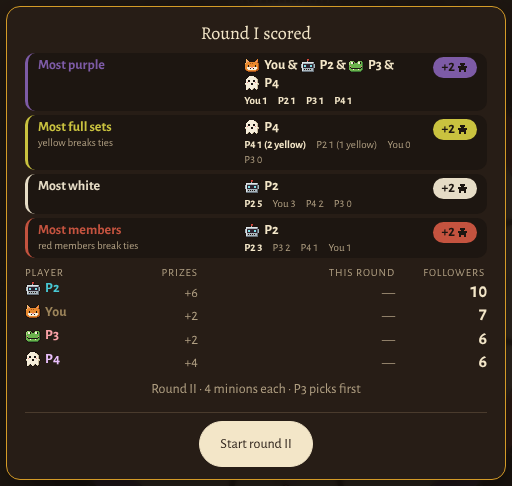
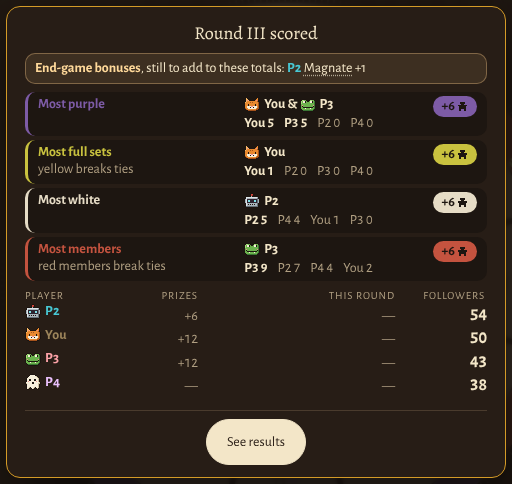
WIP checkpoint: agents in progress
Claude-Session: https://claude.ai/code/session_017rw3aQa9iJEjdvvwQLY84z

diff --git a/src/v4/lamp.css b/src/v4/lamp.css
@@ -495,7 +495,7 @@ h1,h2,h3{font-family:var(--serif)}
 @keyframes reckonwin{50%{transform:translate(0,-50%) scale(1.18)}}
 .lt-reckon .reckon-skip{position:absolute;right:18px;bottom:18px;min-height:44px;padding:0 18px;color:var(--cream);border-color:rgba(243,230,200,.4);background:rgba(29,22,17,.7)}
 .token-flight{position:fixed;z-index:45;pointer-events:none;display:grid;place-items:center;will-change:transform}
-.token-flight .reckon-token{display:grid;place-items:center;width:100%;height:100%;border-radius:50%;background:var(--lamp-ink);color:var(--paper-ink);font-family:var(--serif);font-weight:700;font-size:15px;box-shadow:0 0 0 2px var(--pc),0 6px 14px rgba(0,0,0,.5)}
+.token-flight .reckon-token{display:grid;place-items:center;width:100%;height:100%;border-radius:50%;background:var(--lamp-ink);color:var(--paper-ink);font-family:var(--serif);font-weight:700;font-size:14px;box-shadow:0 0 0 2px var(--pc),0 6px 14px rgba(0,0,0,.5)}
 
 /* ---------- the rim: each quadrant's rule engraved along its arc, its leader beside it (Cory: elegant, typographic,
    part of the board) ---------- */
@@ -571,7 +571,7 @@ h1,h2,h3{font-family:var(--serif)}
      wears the lit edge a space you can take wears */
   .app.game.lt.in-setup > .lt-wheel > .prompt.choice.setup{box-shadow:0 0 0 2px rgba(var(--lamp),.85),0 0 24px 4px rgba(var(--lamp),.4),0 14px 34px rgba(0,0,0,.6);
     animation:rise .25s ease-out both,cta-pulse 1.2s .3s ease-out 1}
-  .app.game.lt.in-setup > .lt-wheel > .prompt.choice.setup > p{font-family:var(--serif);font-size:16px}
+  .app.game.lt.in-setup > .lt-wheel > .prompt.choice.setup > p{font-family:var(--serif);font-size:18px}
   .app.game.lt.in-setup > .lt-wheel > .prompt.choice.setup > p::after{content:none}
   .app.game.lt.in-setup > .lt-wheel > .prompt.choice.setup .token:not(:disabled):hover .res-glyph{transform:translateY(-2px)}
 }

diff --git a/src/v4/game/HoverCards.jsx b/src/v4/game/HoverCards.jsx
@@ -416,7 +416,7 @@ export function SeatCard({ state, pid, meId = null, optionFor = () => null, onPi
   const lvl = p.kind === 'bot' ? BOT_LEVEL_INFO.find(l => l.level === botLevel(state, pid)) : null; // Easy / Normal / Hard
   return (
     <div className="lt-card-body seat-card" data-seat-card={pid} style={{ '--pc': playerColor(pid) }}>
-      <div className="t"><SeatFigure id={pid} state={state} size={32} /><h4>{pid === meId ? 'You' : p.name}{lvl ? <small><span data-bot-level={lvl.level} title={lvl.blurb}>{lvl.name} bot</span></small> : null}{safeThisRound(state, pid) ? <small className="seat-safe" data-safe="1">No one can steal resources from {pid === meId ? 'you' : p.name} this round.</small> : null}</h4></div>
+      <div className="t"><SeatFigure id={pid} state={state} size={32} face={pid !== meId} /><h4>{pid === meId ? 'You' : p.name}{lvl ? <small><span data-bot-level={lvl.level} title={lvl.blurb}>{lvl.name} bot</span></small> : null}{safeThisRound(state, pid) ? <small className="seat-safe" data-safe="1">No one can steal resources from {pid === meId ? 'you' : p.name} this round.</small> : null}</h4></div>
       <SeatMembers state={state} pid={pid} me={meId} optionFor={pid === meId ? optionFor : undefined} onPick={pid === meId ? onPick : null} />
     </div>
   );

diff --git a/src/v4/game/Glyphs.jsx b/src/v4/game/Glyphs.jsx
@@ -80,10 +80,11 @@ export function FollowerMark({ n, size = 6, label = true }) {
 }
 
 /** A seat's cult leader (32px): the robed figure in the seat's accent color with the player's emoji (or sigil). */
-export function SeatFigure({ id, state = null, size = 32, title = null, dim = false }) {
+export function SeatFigure({ id, state = null, size = 32, title = null, dim = false, face = false }) {
   return (
     <span className={`seat-fig${dim ? ' dim' : ''}`} data-seat={id} title={title || undefined} style={{ width: size, height: size }}>
-      <Leader color={playerColor(id)} emoji={seatEmoji(state, id)} sigil={seatSigil(id)} size={size} />
+      {/* face: a rival shows its emoji alone, as its chair does (w2a #17); you keep the robed leader */}
+      {face ? <Minion color={playerColor(id)} emoji={seatEmoji(state, id)} size={size} /> : <Leader color={playerColor(id)} emoji={seatEmoji(state, id)} sigil={seatSigil(id)} size={size} />}
     </span>
   );
 }

diff --git a/src/v4/game/since.css b/src/v4/game/since.css
@@ -20,7 +20,7 @@
 .lt-since .big{color:var(--cream-2,#d9cbb0)}
 .lt-since .since-row .pip{width:.95em;height:.95em;vertical-align:-.15em}
 .lt-since .since-row.hit{background:rgba(232,120,100,.1);box-shadow:inset 2px 0 0 rgba(232,120,100,.7)}
-.lt-since .since-more button{font:inherit;font-size:11.5px;color:var(--cream-3);background:none;border:0;padding:1px 7px;cursor:pointer;text-decoration:underline dotted}
+.lt-since .since-more button{font:inherit;font-size:11px;color:var(--cream-3);background:none;border:0;padding:1px 7px;cursor:pointer;text-decoration:underline dotted}
 .lt-since .since-none{margin:0;padding:2px 7px;font-size:var(--s);color:var(--cream-3)}
 
 /* a space or member name that opens its card (HoverNames.jsx): a quiet dotted underline, nothing louder */

diff --git a/design/eval/design-pod/details.md b/design/eval/design-pod/details.md
@@ -155,3 +155,5 @@ Each line: where, the problem in plain words, the fix, and before/after shots (d
     - the pay sheet's Cancel, Pay and its dots (16 → 14)
     Census after: home, setup (Classic and Custom), the lobby, the table, the menu, the log, the pay sheet and the results are all on 11/14/18/36, with no text cut. `v4.css`, `lamp.css`, `lamp-b.css`, `pay.css`.
 102. **Guard:** new `e2e/v4/lib/typescale.mjs` (TYPE_SCALE: any visible word off 11/14/18/36, the wheel's fitted panel faces left out). hotseat.mjs runs it at setup, at every step and on the results; info.mjs (r) runs it with every hover card open.
+103. **Small print follows the art director's rule** (their log, 06:35: 11px only for caps labels and card names). The round summary's counts, tiebreak notes and end-game line are 14 now; only its caps column heads stay 11 (this corrects 98, which had them at 11). It still fits whole at 700px, round III included. The hover cards' small print, and the seat card's tags, reasons and switches, are 14 too. info.mjs (n) used to say "nothing under 12px"; it now says caps labels at 11 and any other words at 14. That's stricter for the small print it was written about (10.8–11px). `lamp-b.css`, `members.css`. After: shots/round-summary-scale-after.png (re-shot).
+104. **The new guard's first catches** (hotseat on a snapshot of the live tree): the starting pick's "Pick 1 of 2" (16 → 18, a panel title), the strip's "2 earlier… open the log" (11.5 → 11), and the Reckoning's flying "+4" token (15 → 14). Fixed. That run's other failure was the 4-minute game timeout on a loaded box. `lamp.css`, `since.css`.

diff --git a/design/eval/design-pod/log.md b/design/eval/design-pod/log.md
@@ -94,3 +94,4 @@ The full reasoning and every variant's shots are in layout.md. The result is thr
 
 ## 08:50 · Since-strip, whole lines (again)
 - **round III** · The strip still showed half a line at the top. The perf pod had moved my measure into a ResizeObserver; its overflow test (scrollHeight) can't see lines spilling above the top of a list stacked from its foot, and it could fold several lines before React showed the first fold. When the turn card left, the strip's room grew without resizing anything watched, so it never unfolded. → **Fixed (small edits in the perf pod's code):** overflow is read from the first line's edge, one more line folds only once the last fold is on screen, and the fold starts over when the turn card comes or goes (a `cardUp` prop on GameScreen's SinceStrip line, outside TurnCard). Round III, placing: "1 earlier…" plus five whole lines. Buying with the card up: "4 earlier…" plus two lines above the card (shots/0850/).
+- **seat hover** · The card's header still drew the robed leader while the chair shows the rival's emoji face, so one player had two looks. → **Fixed:** the header uses the same face (HoverCards.jsx SeatCard → Glyphs.jsx SeatFigure `face`); yours keeps the robe.
